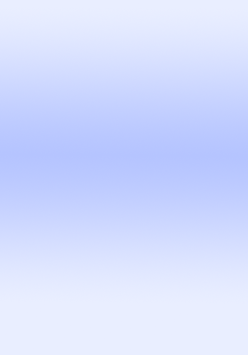
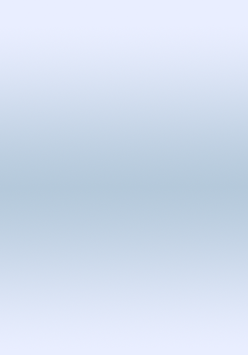
Further improved the GUI, more improvements and further colours changes.
git-svn-id: http://svn.igniterealtime.org/svn/repos/spark/trunk@10404 b35dd754-fafc-0310-a699-88a17e54d16e

diff --git a/src/java/org/jivesoftware/Spark.java b/src/java/org/jivesoftware/Spark.java
@@ -286,9 +286,9 @@ public final class Spark {
         if (isLinux()) {
             return ".Spark";
         }
-        else if (isWindows()) {
+        /*else if (isWindows()) {
             return "Spark";
-        }
+        } (not needed really)*/
 
         return "Spark";
     }
@@ -338,7 +338,7 @@ public final class Spark {
         UIManager.put("ChatInput.SelectionColor", new Color(209, 223, 242));
         UIManager.put("ContactItemNickname.foreground", Color.black);
         UIManager.put("ContactItemDescription.foreground", Color.gray);
-        UIManager.put("ContactItem.background", new Color(181, 196, 255));
+        UIManager.put("ContactItem.background", new Color(240, 243, 253));
         UIManager.put("ContactItem.border", BorderFactory.createLineBorder(Color.white));
         UIManager.put("ContactItemOffline.color", Color.gray);
         UIManager.put("Table.foreground", Color.black);

diff --git a/src/java/org/jivesoftware/spark/component/renderer/JPanelRenderer.java b/src/java/org/jivesoftware/spark/component/renderer/JPanelRenderer.java
@@ -51,10 +51,10 @@ public class JPanelRenderer extends JPanel implements ListCellRenderer {
         else {
             panel.setBackground(list.getBackground());
             panel.setForeground(list.getForeground());
-            panel.setBorder(BorderFactory.createLineBorder((Color)UIManager.get("List.background")));
+            panel.setBorder(BorderFactory.createLineBorder((Color)UIManager.get("ContactItem.background")));
         }
 
-        list.setBackground((Color)UIManager.get("List.background"));
+        list.setBackground((Color)UIManager.get("ContactItem.background"));
 
 
         return panel;

diff --git a/src/java/org/jivesoftware/spark/ui/ContactList.java b/src/java/org/jivesoftware/spark/ui/ContactList.java
@@ -133,7 +133,7 @@ public final class ContactList extends JPanel implements ActionListener, Contact
         addingGroupButton.addActionListener(this);
 
         mainPanel.setLayout(new VerticalFlowLayout(VerticalFlowLayout.TOP, 0, 0, true, false));
-        mainPanel.setBackground((Color)UIManager.get("List.background"));
+        mainPanel.setBackground((Color)UIManager.get("ContactItem.background"));
         contactListScrollPane = new JScrollPane(mainPanel);
         contactListScrollPane.setAutoscrolls(true);
 
